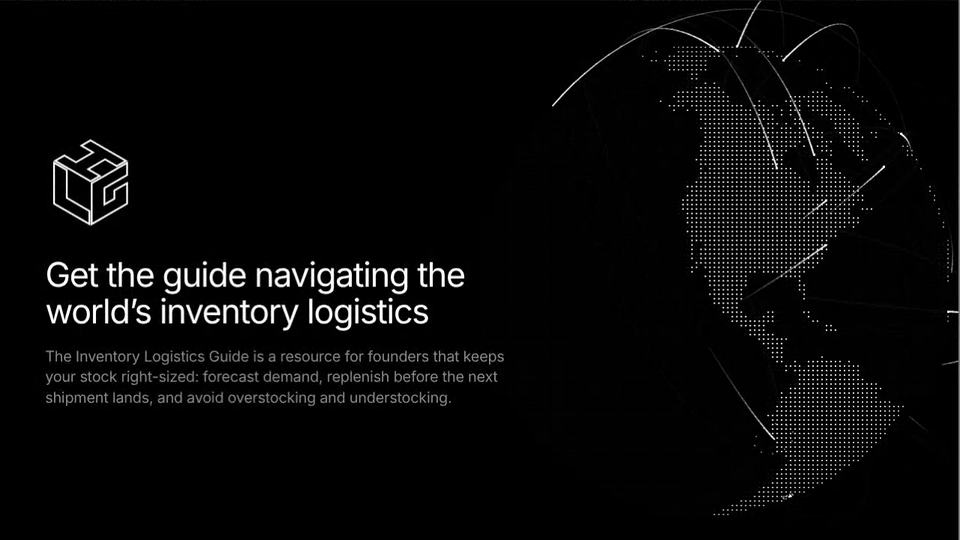
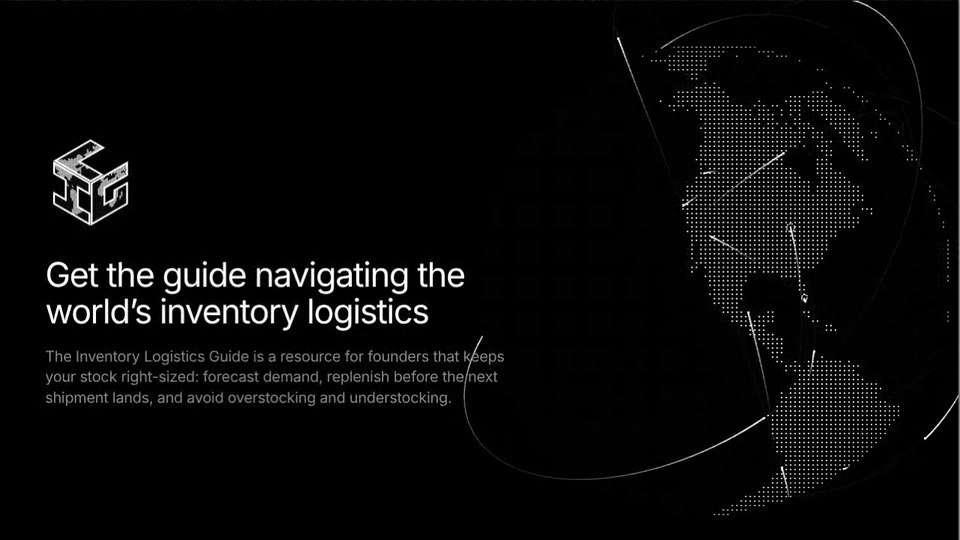
ILG Pixel Globe: world map inside the letters, upright I (#242)
* Add ILG Pixel Globe: turning pixel globe with orders in flight, ILG cube logo, inventory logistics copy

Claude-Session: https://claude.ai/code/session_01AHeBdyZwDopNFk9zfrWTHL

* ILG Pixel Globe: 3D world-textured cube logo with pixel letters, put world's inventory logistics on one line

Claude-Session: https://claude.ai/code/session_01AHeBdyZwDopNFk9zfrWTHL

* ILG Pixel Globe: slowly rotating 3D cube, letters cut into the lit side faces

Claude-Session: https://claude.ai/code/session_01AHeBdyZwDopNFk9zfrWTHL

* ILG Pixel Globe: static outlined cube made of squared I, L, G letters filling each face

Claude-Session: https://claude.ai/code/session_01AHeBdyZwDopNFk9zfrWTHL

* ILG Pixel Globe: world map inside the letters, upright I on the left face, L on top

Claude-Session: https://claude.ai/code/session_01AHeBdyZwDopNFk9zfrWTHL

---------

diff --git a/ilg-pixel-globe/index.html b/ilg-pixel-globe/index.html
@@ -38,9 +38,10 @@ p{margin-top:clamp(14px,1.8vw,30px);max-width:31em;font:400 clamp(14px,1.55vw,28
 <canvas id="c" role="img" aria-label="A globe made of white pixels with glowing arcs of orders flying between warehouses and customers on every continent. Drag to turn it."></canvas>
 <div class="copy">
   <svg class="logo" viewBox="4 0 92 100" fill="none" stroke="#fff" stroke-width="2.4" stroke-linejoin="miter" role="img" aria-label="ILG">
-    <polygon transform="matrix(38 22 -38 22 50 6)" points="0.030 0.030 0.970 0.030 0.970 0.274 0.660 0.274 0.660 0.726 0.970 0.726 0.970 0.970 0.030 0.970 0.030 0.726 0.340 0.726 0.340 0.274 0.030 0.274" vector-effect="non-scaling-stroke"/>
-    <polygon transform="matrix(38 22 0 44 12 28)" points="0.030 0.030 0.368 0.030 0.368 0.669 0.970 0.669 0.970 0.970 0.030 0.970" vector-effect="non-scaling-stroke"/>
-    <polygon transform="matrix(38 -22 0 44 50 50)" points="0.030 0.030 0.970 0.030 0.970 0.312 0.368 0.312 0.368 0.688 0.632 0.688 0.632 0.500 0.970 0.500 0.970 0.970 0.030 0.970" vector-effect="non-scaling-stroke"/>
+    <defs><clipPath id="cl-top"><polygon points="0.030 0.030 0.368 0.030 0.368 0.669 0.970 0.669 0.970 0.970 0.030 0.970"/></clipPath><clipPath id="cl-left"><polygon points="0.030 0.030 0.970 0.030 0.970 0.274 0.660 0.274 0.660 0.726 0.970 0.726 0.970 0.970 0.030 0.970 0.030 0.726 0.340 0.726 0.340 0.274 0.030 0.274"/></clipPath><clipPath id="cl-right"><polygon points="0.030 0.030 0.970 0.030 0.970 0.312 0.368 0.312 0.368 0.688 0.632 0.688 0.632 0.500 0.970 0.500 0.970 0.970 0.030 0.970"/></clipPath></defs>
+    <g transform="matrix(38 22 -38 22 50 6)"><rect width="1" height="1" fill="#050505" clip-path="url(#cl-top)" stroke="none"/><g id="tx-top" clip-path="url(#cl-top)" stroke="none"></g><polygon points="0.030 0.030 0.368 0.030 0.368 0.669 0.970 0.669 0.970 0.970 0.030 0.970" vector-effect="non-scaling-stroke"/></g>
+    <g transform="matrix(38 22 0 44 12 28)"><rect width="1" height="1" fill="#050505" clip-path="url(#cl-left)" stroke="none"/><g id="tx-left" clip-path="url(#cl-left)" stroke="none"></g><polygon points="0.030 0.030 0.970 0.030 0.970 0.274 0.660 0.274 0.660 0.726 0.970 0.726 0.970 0.970 0.030 0.970 0.030 0.726 0.340 0.726 0.340 0.274 0.030 0.274" vector-effect="non-scaling-stroke"/></g>
+    <g transform="matrix(38 -22 0 44 50 50)"><rect width="1" height="1" fill="#050505" clip-path="url(#cl-right)" stroke="none"/><g id="tx-right" clip-path="url(#cl-right)" stroke="none"></g><polygon points="0.030 0.030 0.970 0.030 0.970 0.312 0.368 0.312 0.368 0.688 0.632 0.688 0.632 0.500 0.970 0.500 0.970 0.970 0.030 0.970" vector-effect="non-scaling-stroke"/></g>
   </svg>
   <h1>Get the guide navigating the<br>world’s inventory logistics</h1>
   <p>The Inventory Logistics Guide is a resource for founders that keeps your stock right-sized: forecast demand, replenish before the next shipment lands, and avoid overstocking and understocking.</p>
@@ -203,6 +204,21 @@ const up=()=>{drag=null;cv.classList.remove('drag')};
 cv.addEventListener('pointerup',up);cv.addEventListener('pointercancel',up);
 
 
+
+/* the world wrapped around the cube (cube-sphere projection), shown through the letter shapes */
+(()=>{
+  const NS='http://www.w3.org/2000/svg',N=26,SH=-75;
+  const F={top:{O:[-1,1,-1],U:[2,0,0],V:[0,0,2]},left:{O:[-1,1,1],U:[2,0,0],V:[0,-2,0]},right:{O:[1,1,1],U:[0,0,-2],V:[0,-2,0]}};
+  for(const n in F){
+    const f=F[n],g=document.getElementById('tx-'+n);let h='';
+    for(let j=0;j<N;j++)for(let i=0;i<N;i++){
+      const u=(i+.5)/N,v=(j+.5)/N,x=f.O[0]+f.U[0]*u+f.V[0]*v,y=f.O[1]+f.U[1]*u+f.V[1]*v,z=f.O[2]+f.U[2]*u+f.V[2]*v,m=Math.hypot(x,y,z);
+      const ld=land(Math.asin(y/m)/D,Math.atan2(x,z)/D+SH),s=ld?.84:.46,o=(1-s)/2/N;
+      h+='<rect x="'+((i+(1-s)/2)/N).toFixed(4)+'" y="'+((j+(1-s)/2)/N).toFixed(4)+'" width="'+(s/N).toFixed(4)+'" height="'+(s/N).toFixed(4)+'" fill="#fff" fill-opacity="'+(ld?.95:.16)+'"/>';
+    }
+    g.innerHTML=h;
+  }
+})();
 
 resize();setView();
 for(let i=0;i<150;i++){step(1/30);lon0-=SPEED/30}        /* start with orders already in flight */
